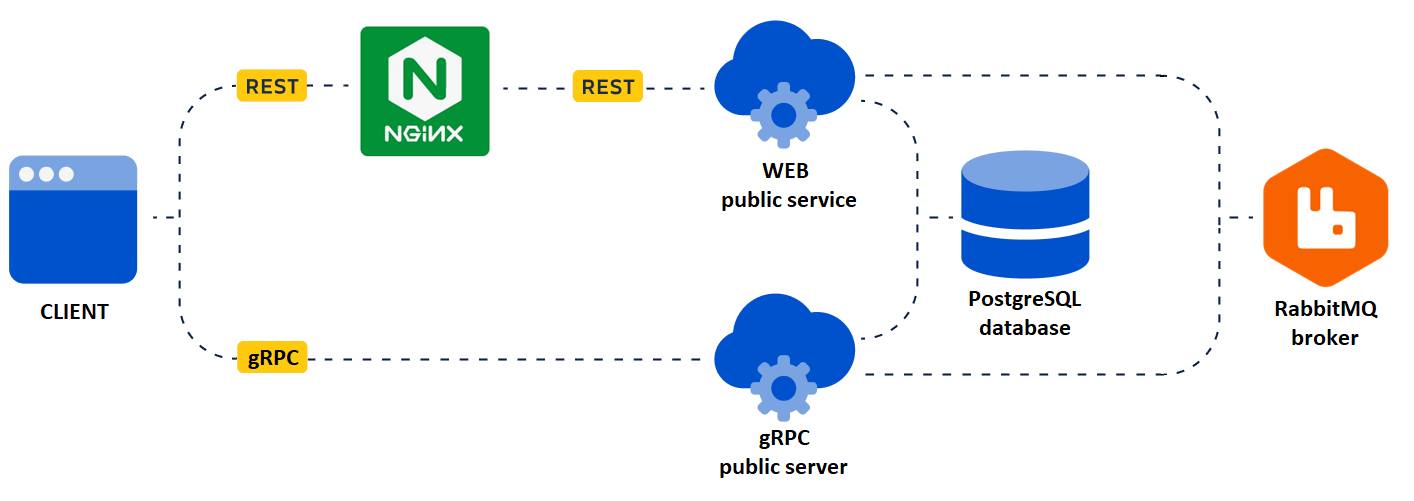
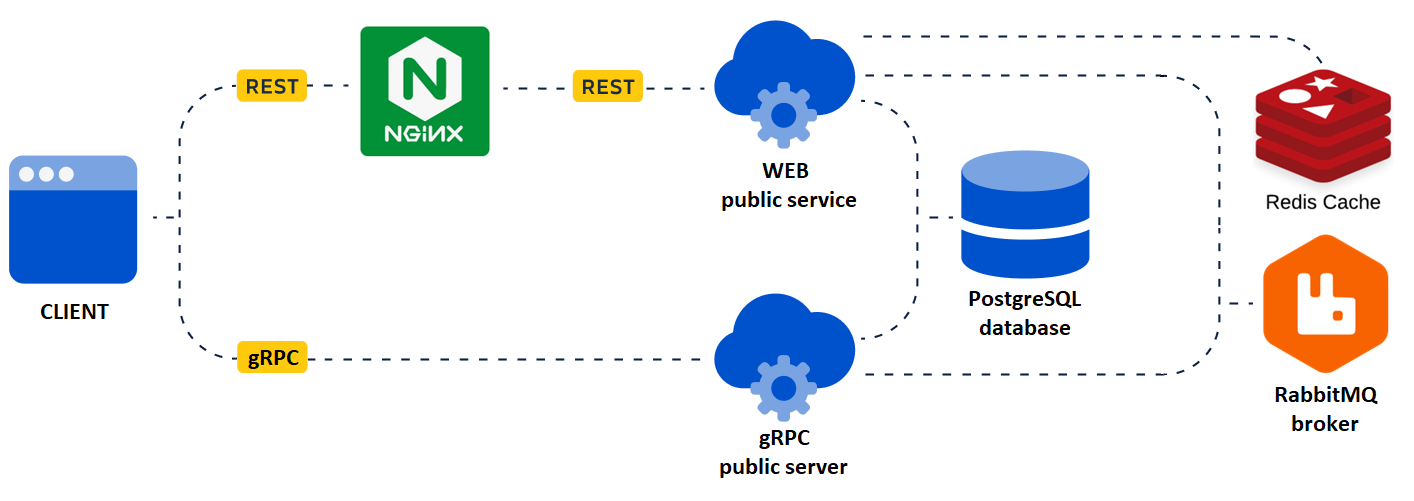
Cache + Redis

diff --git a/web/api/endpoints/book.py b/web/api/endpoints/book.py
@@ -1,14 +1,17 @@
+import json
 from http import HTTPStatus
 from typing import Dict, List
 
 from fastapi import APIRouter, Depends, HTTPException
+from redis import Redis
 from sqlalchemy.ext.asyncio import AsyncSession
 
-from web.api.endpoints.validators import (validate_book_exist,
-                                          validate_new_book)
+from web.api.endpoints.validators import validate_book_exist, validate_new_book
+from web.core.config import settings
 from web.core.crud import book_crud
 from web.core.db import get_async_session
 from web.core.rabbitmq import send_message_to_broker
+from web.core.redis import get_redis_client
 from web.core.user import current_user
 from web.schemas.book import BookCreate, BookRead, BookUpdate
 
@@ -18,14 +21,22 @@ router = APIRouter(tags=['books'], dependencies=[Depends(current_user)])
 @router.get('/books', response_model=List[BookRead])
 async def get_books_list(
     session: AsyncSession = Depends(get_async_session),
+    redis: Redis = Depends(get_redis_client)
 ) -> List[BookRead]:
     """Возвращает список книг."""
-    all_books = await book_crud.get_multi(session)
-    if len(all_books) == 0:
-        raise HTTPException(
-            status_code=HTTPStatus.NOT_FOUND,
-            detail='Список книг пуст!'
-        )
+    redis_key = get_books_list.__name__
+    cached_data = redis.get(redis_key)
+    if cached_data:
+        all_books = json.loads(cached_data)
+    else:
+        all_books = await book_crud.get_multi(session)
+        if len(all_books) == 0:
+            raise HTTPException(
+                status_code=HTTPStatus.NOT_FOUND,
+                detail='Список книг пуст!'
+            )
+        redis.set(name=redis_key, value=json.dumps(all_books),
+                  ex=settings.CACHE_EXPIRE)
     return all_books
 
 
@@ -47,9 +58,18 @@ async def create_new_book(
 async def get_book(
     id: int,
     session: AsyncSession = Depends(get_async_session),
+    redis: Redis = Depends(get_redis_client)
 ) -> BookRead:
     """Возвращает книгy по id."""
-    return await validate_book_exist(id, session)
+    redis_key = f'{get_book.__name__}-id={id}'
+    cached_data = redis.get(redis_key)
+    if cached_data:
+        book = json.loads(cached_data)
+    else:
+        book = await validate_book_exist(id, session)
+        redis.set(name=redis_key, value=json.dumps(book.dict()),
+                  ex=settings.CACHE_EXPIRE)
+    return book
 
 
 @router.put('/books/{id}', response_model=BookRead)

diff --git a/web/core/init_db.py b/web/core/init_db.py
@@ -1,4 +1,5 @@
 import contextlib
+import os
 
 import asyncpg
 from fastapi_users.exceptions import UserAlreadyExists
@@ -67,6 +68,22 @@ async def create_db_if_not_exists():
             database='template1',
             password='postgres'
         )
+        CREATE_USER_IF_NOT_EXISTS = f"""
+        DO
+        $do$
+        BEGIN
+           IF EXISTS (
+              SELECT FROM pg_catalog.pg_roles
+              WHERE  rolname = '{settings.POSTGRES_USER}') THEN
+              RAISE NOTICE 'Role "{settings.POSTGRES_USER}" is already exists. Skipping.';
+           ELSE
+              CREATE ROLE {settings.POSTGRES_USER} WITH LOGIN SUPERUSER
+                PASSWORD '{settings.POSTGRES_PASSWORD}';
+           END IF;
+        END
+        $do$;"""
+        await connection.execute(CREATE_USER_IF_NOT_EXISTS)
+        print('Пользователь создан!')
         CREATE_DB = f"""
         CREATE DATABASE {settings.POSTGRES_DB}
         OWNER '{settings.POSTGRES_USER}';
@@ -74,4 +91,5 @@ async def create_db_if_not_exists():
         await connection.execute(CREATE_DB)
         print('База создана!')
         await connection.close()
+        os.system('alembic upgrade head')
         await create_db_if_not_exists()

diff --git a/tests/test_main.py b/tests/test_main.py
@@ -3,6 +3,8 @@ import json
 import pytest
 from fastapi import status
 from httpx import AsyncClient
+from sqlalchemy import func, select
+from sqlalchemy.ext.asyncio import AsyncSession
 
 from web.core.models import Book
 
@@ -99,12 +101,14 @@ class TestAPI:
 
 
     async def test_authorized_user_can_delete_book(
-        self, authenticated_client: AsyncClient
+        self, authenticated_client: AsyncClient, async_db: AsyncSession
     ):
         """
         Авторизованный пользователь может удалить запись.
         """
-        response_1 = await authenticated_client.get("/books")
+        response_1 = await async_db.execute(func.count(Book.id))
+        response_1 = response_1.scalar()
         await authenticated_client.delete("/books/1")
-        response_2 = await authenticated_client.get("/books")
-        assert len(response_1.json()) == len(response_2.json()) + 1
+        response_2 = await async_db.execute(func.count(Book.id))
+        response_2 = response_2.scalar()
+        assert response_1 == response_2 + 1

diff --git a/web/core/config.py b/web/core/config.py
@@ -25,6 +25,10 @@ class Settings(BaseSettings):
     RABBITMQ_HOST: str = os.getenv('RABBITMQ_HOST', 'localhost')
     RABBITMQ_PORT: int = int(os.getenv('RABBITMQ_PORT', 5672))
     RABBITMQ_QUEUE: str = os.getenv('RABBITMQ_QUEUE', 'hello')
+    REDIS_HOST: str = os.getenv('REDIS_HOST', "localhost")
+    REDIS_PORT: str | int = os.getenv('REDIS_PORT', 6379)
+    LOCAL_REDIS_URL: str = (f"redis://{REDIS_HOST}:{REDIS_PORT}")
+    CACHE_EXPIRE: int = 60
 
     class Config:
         env_file = '.env'

diff --git a/web/schemas/book.py b/web/schemas/book.py
@@ -24,7 +24,13 @@ class BookCreate(BookUpdate):
 
 class BookRead(BookCreate):
     id: int
-    uploaded_at: datetime
+    uploaded_at: datetime | str
 
     class Config:
         from_attributes = True
+
+    @field_validator("uploaded_at")
+    def parse_date(cls, value):
+        if isinstance(value, str):
+            return value
+        return value.date().strftime("%d-%m-%Y")

diff --git a/tests/fixtures/fixture_data.py b/tests/fixtures/fixture_data.py
@@ -1,8 +1,7 @@
 import asyncpg
 import pytest
 from httpx import AsyncClient
-from sqlalchemy.ext.asyncio import (AsyncSession, async_sessionmaker,
-                                    create_async_engine)
+from sqlalchemy.ext.asyncio import AsyncSession, create_async_engine
 from sqlalchemy.orm import sessionmaker
 
 from web.core.crud import book_crud

diff --git a/web/core/models.py b/web/core/models.py
@@ -23,7 +23,7 @@ class Book(Base):
         return dict(name=self.name,
                     id=self.id,
                     author=self.author,
-                    uploaded_at=self.uploaded_at)
+                    uploaded_at=self.uploaded_at.date().strftime("%d-%m-%Y"))
 
 
 class User(SQLAlchemyBaseUserTable[int], Base):

diff --git a/web/core/redis.py b/web/core/redis.py
@@ -1,0 +1,10 @@
+from redis import Redis, RedisError
+
+from web.core.config import settings as st
+
+
+async def get_redis_client():
+    try:
+        return Redis(host=st.REDIS_HOST, port=st.REDIS_PORT)
+    except:
+        raise RedisError("Кеширование недоступно")

diff --git a/README.md b/README.md
@@ -15,6 +15,7 @@
 * RabbitMQ
 * Asyncio
 * SQLAlchemy + Alembic
+* Redis
 * Pytest
 * Docker
 * Nginx
